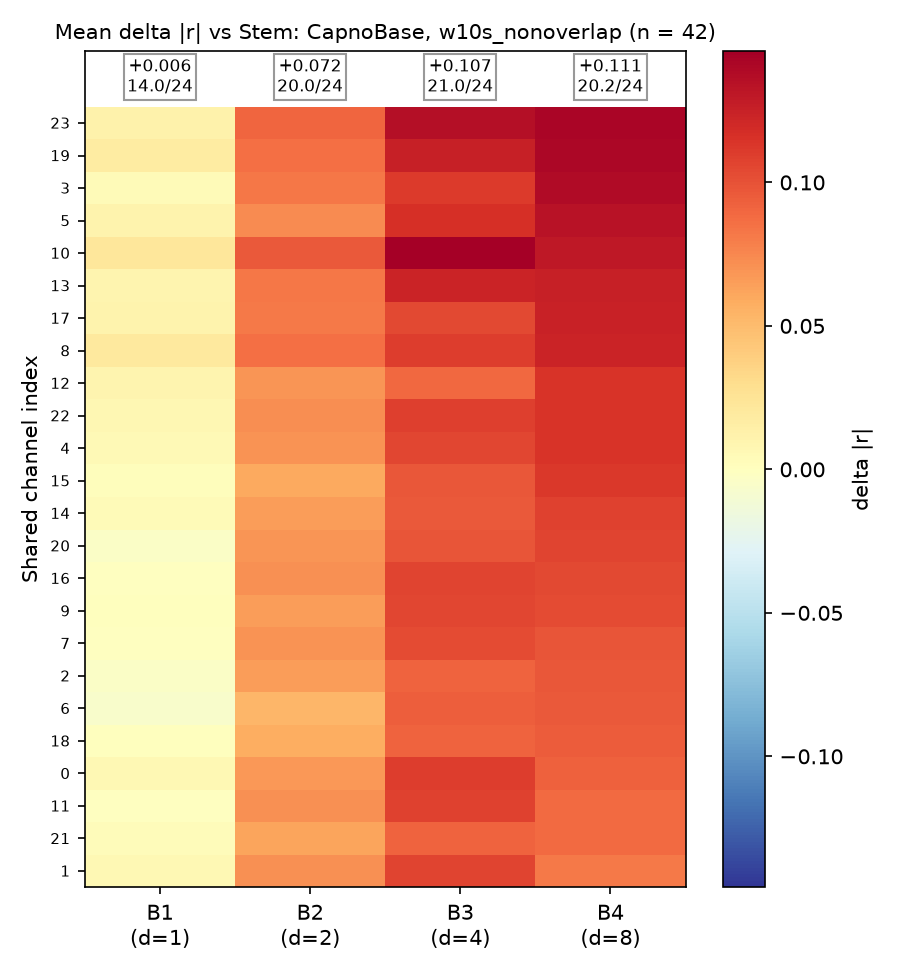
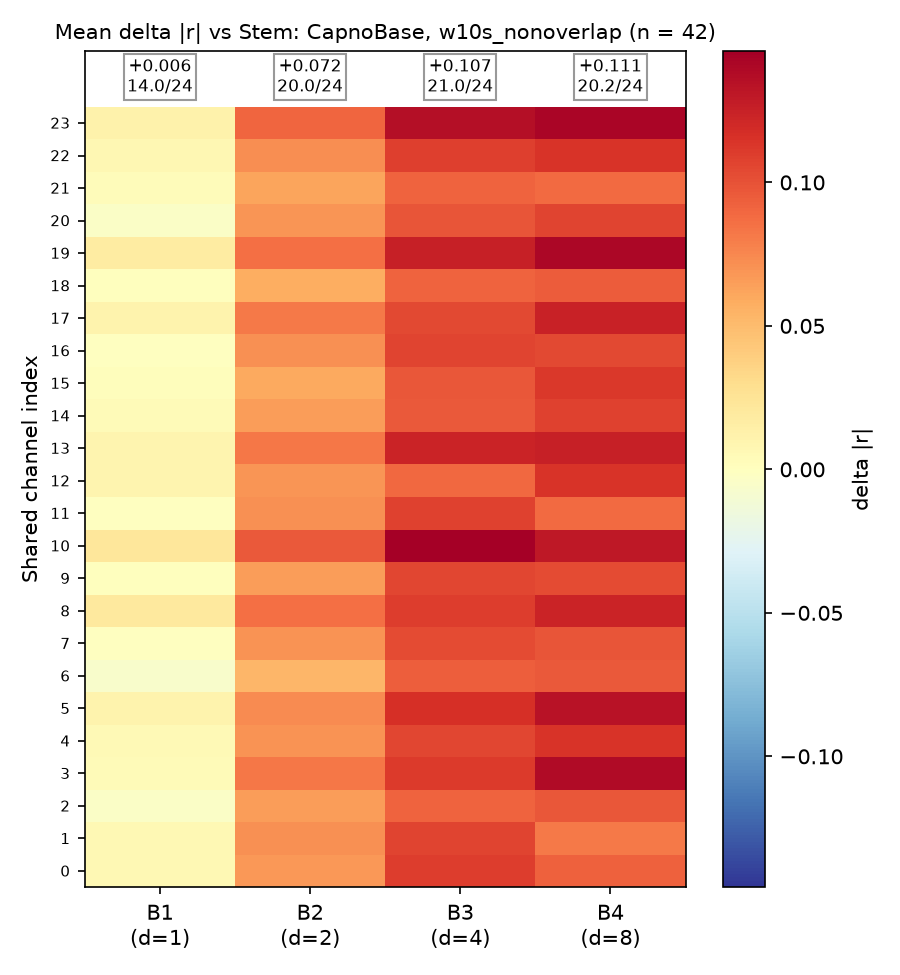
261010 encoder analysis: heatmap rows in channel order (23 to 0)
The delta |r| heatmap no longer sorts the channels by their B4 value; the
rows are the channel indices 23 (top) to 0. Values are unchanged.
Regenerated CapnoBase 10 s and 20 s heatmaps.

Claude-Session: https://claude.ai/code/session_019GvyRsvT7nSngA516wkohk

diff --git a/261010_RRWaveNet_Encoder_Feature_Analysis.py b/261010_RRWaveNet_Encoder_Feature_Analysis.py
@@ -18,8 +18,9 @@ trained on it (min-max to [-1, 1]).
    channel. Reported per stage: the mean |r| over the 24 channels (PCC),
    its change against Stem (mean delta |r|), and the number of channels
    (of 24) whose |r| is higher than at Stem ("better"). Figures: heatmap of
-   the mean delta |r| per channel and block, and the mean |channel r| per
-   stage with delta, better and the p value.
+   the mean delta |r| per channel and block (channels in their own order,
+   23 at the top to 0), and the mean |channel r| per stage with delta,
+   better and the p value.
 2. PC1 power in the respiratory band (frequency analysis, right)
    PCA over the 24 channels: the channels are standardized over all
    samples of the subject, PC1 is the first principal component (the share
@@ -393,7 +394,8 @@ def analyse(args: argparse.Namespace) -> None:
                     })
                 corr_rows.append(row)
             channel_delta = delta.groupby(level="Channel").mean()
-            order = channel_delta[STAGES[-1]].sort_values(ascending=False).index
+            # Rows in channel order, 23 (top) to 0 (bottom); no sorting by value.
+            order = sorted(channel_delta.index, reverse=True)
             fig, axis = plt.subplots(figsize=(6.0, 6.5))
             matrix = channel_delta.loc[order, list(STAGES[1:])].to_numpy()
             limit = max(float(np.nanmax(np.abs(matrix))), 1e-6)
